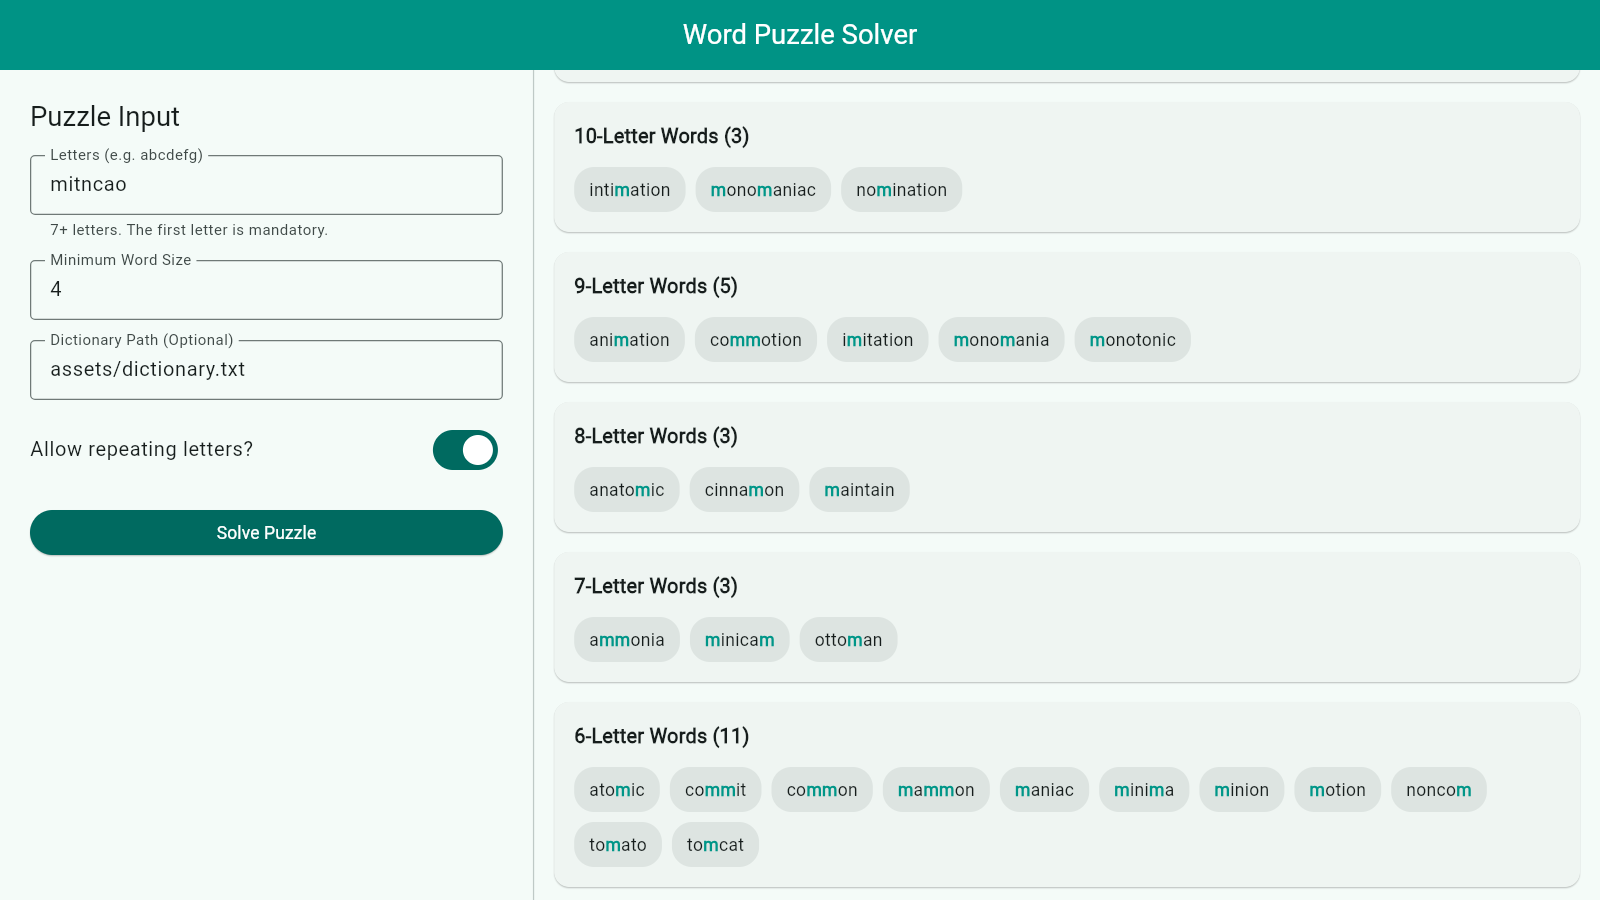
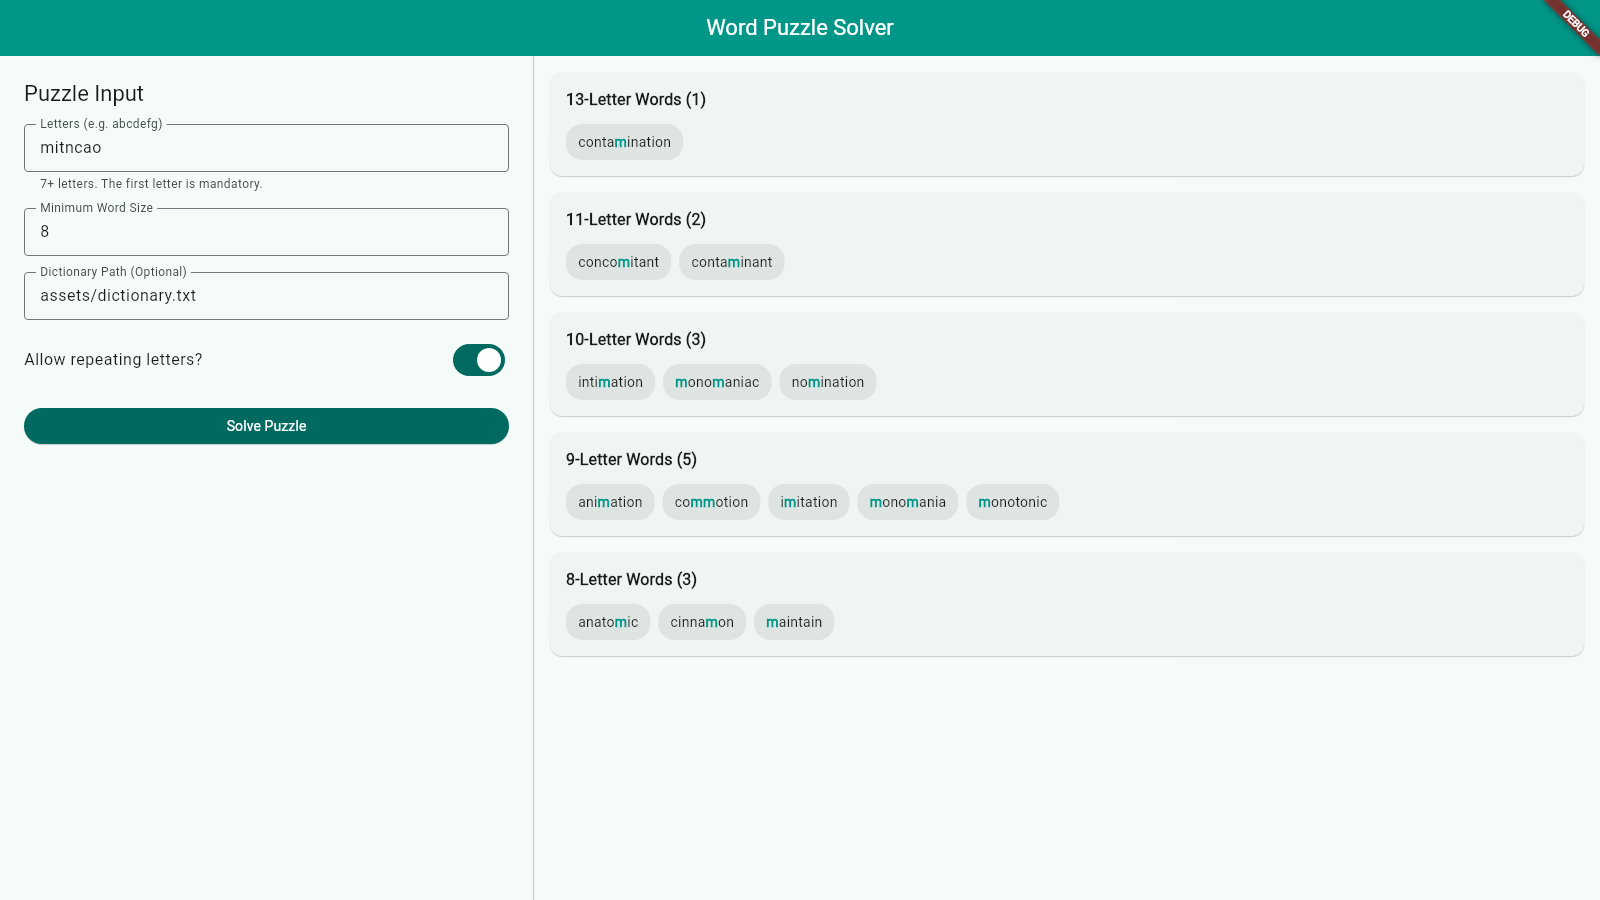
feat: update build process and README for Flutter web app deployment to include flutter-wordpuzzle base href

diff --git a/README.md b/README.md
@@ -3,6 +3,23 @@
 This repository contains a local word-puzzle solver deployed as a Pure Flutter
 Web app.
 
+## Sample Puzzle
+
+The puzzle consists of a set of letters and a list of word lengths. The goal is
+to find all valid words that can be formed using the given letters and match the
+specified lengths.
+
+- **Letters**: `mitncao` - here `m` is mandatory and must be included in every
+  word)
+- **Word Lengths**: `4, 5, 6, 7,...` - 4 more letters in each word
+- **Allow Repeating Letters**: Yes - each letter can be used multiple times in a
+  word
+- **Dictionary**: A standard English dictionary is used to validate the words.
+
+![Spelling Bee sample puzzle](docs/spelling-bee-sample.png)
+
+## Requirements and Change Notes
+
 See project notes in [docs/](docs/)
 
 - [Initial Application Requirements](docs/app-requirements.md)
@@ -51,7 +68,7 @@ docker compose up --build
 docker-compose up --build
 ```
 
-The web UI will be served at `http://localhost:8080`.
+The web UI will be served at `http://localhost:8080`.mitncao
 
 #### Docker build tips
 